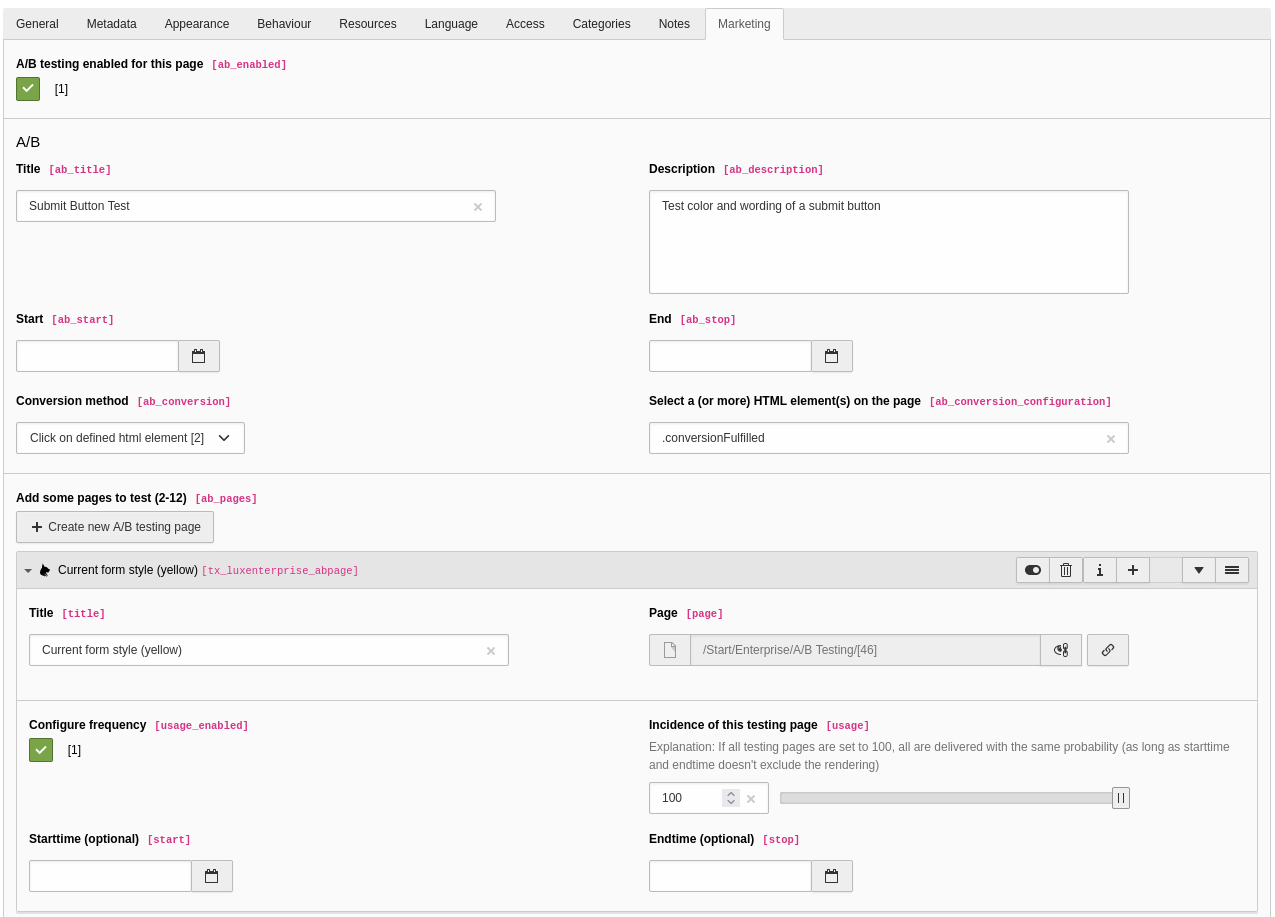
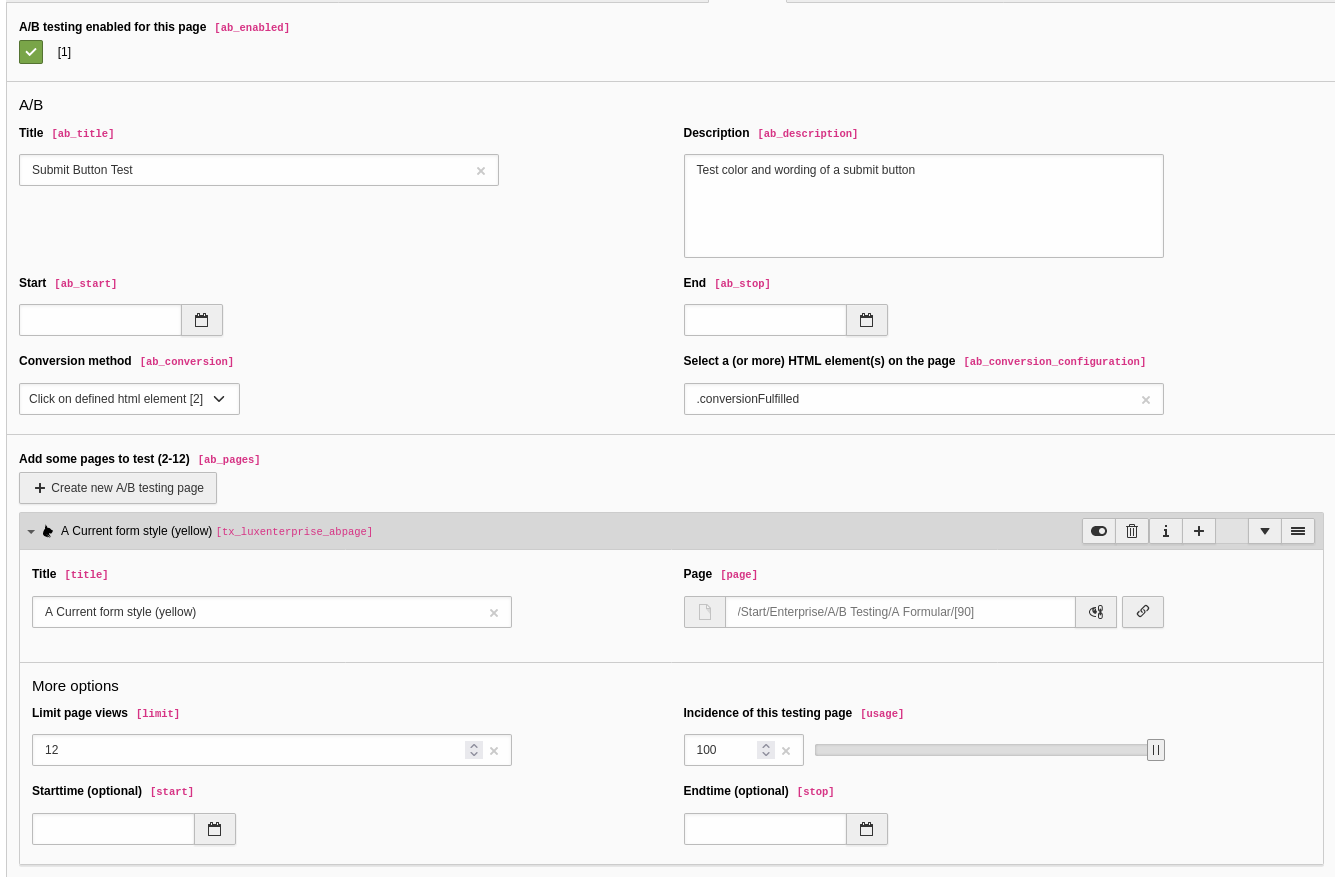
[TASK] Update documentation for new limit functionality in A/B tests

diff --git a/Documentation/Technical/Campaigns/AbTesting.md b/Documentation/Technical/Campaigns/AbTesting.md
@@ -40,7 +40,7 @@ Read for your first test.
 | Add some pages to test                         | You need to add 2 up to 12 pages records here                                                                                                                                                                                                 |
 | Page/Title                                     | Add a name for this page - like "Page A"                                                                                                                                                                                                      |
 | Page/Page                                      | Select a page from the pagetree                                                                                                                                                                                                               |
-| Page/Configure frequency                       | Check this if you want to make some more configuration (will show more fields)                                                                                                                                                                |
+| Page/Limit                                     | If you want to limit the number of views of this test in frontend, you can add a limit here                                                                                                                                                   |
 | Page/Incidence of this testing page            | If all testing pages are set to 100, all are delivered with the same probability (as long as starttime and endtime doesn't exclude the rendering). You can reduce the probability of single pages if you don't want to deliver them that ofen |
 | Page/Starttime (optional)                      | If this page should be shown in future only, select a date                                                                                                                                                                                    |
 | Page/Endtime (optional)                        | If delivering this page should be stopped automatically at a specific date, select a date                                                                                                                                                     |
